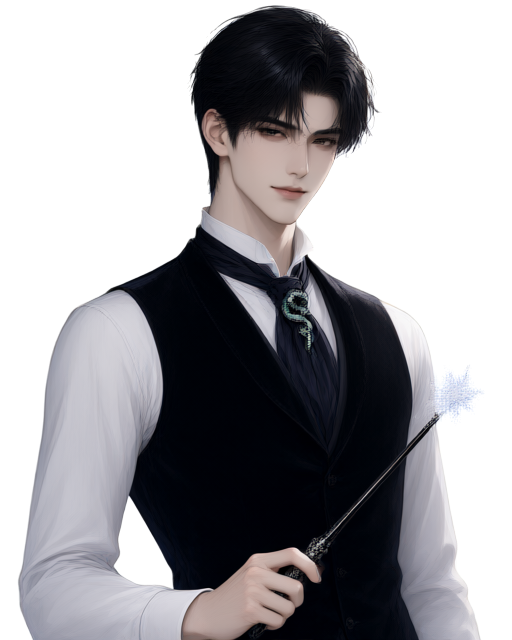
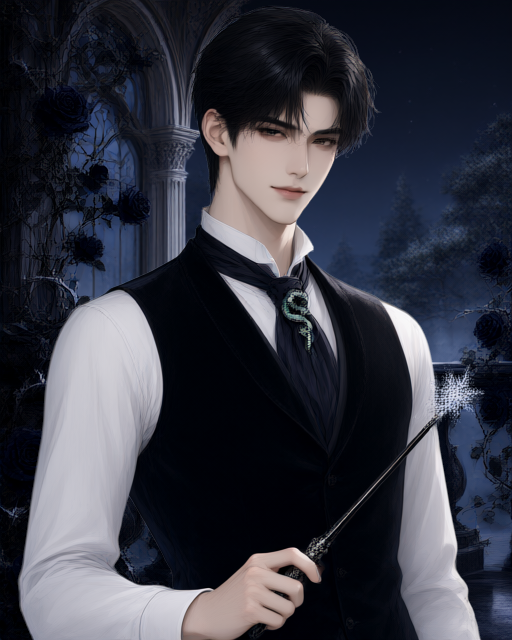
feat(art): generate 2.5D web app backdrop and character backgrounds with qwen2.1

diff --git a/client/player/froststory.css b/client/player/froststory.css
@@ -6576,14 +6576,21 @@ dialog.fs-overlay[open]::backdrop {
 /* Desktop Framing Shell */
 @media (min-width: 640px) {
   body {
-    background: #09090b !important;
+    background-color: #060810 !important;
+    background-image:
+      radial-gradient(ellipse 90% 80% at 50% 50%, rgba(6, 9, 20, 0.40) 0%, rgba(3, 4, 10, 0.92) 100%),
+      url('/assets/webapp_desktop_bg.webp') !important;
+    background-size: cover !important;
+    background-position: center center !important;
+    background-attachment: fixed !important;
+    background-repeat: no-repeat !important;
   }
   .fs-app {
     max-width: 480px;
     margin: 0 auto;
-    border-left: 1px solid #27272a;
-    border-right: 1px solid #27272a;
-    box-shadow: 0 0 60px rgba(0, 0, 0, 0.85), 0 0 20px rgba(0, 0, 0, 0.6);
+    border-left: 1px solid rgba(255, 255, 255, 0.12);
+    border-right: 1px solid rgba(255, 255, 255, 0.12);
+    box-shadow: 0 0 80px rgba(0, 0, 0, 0.90), 0 0 35px rgba(56, 189, 248, 0.20);
     position: relative;
     background: #000000;
   }
